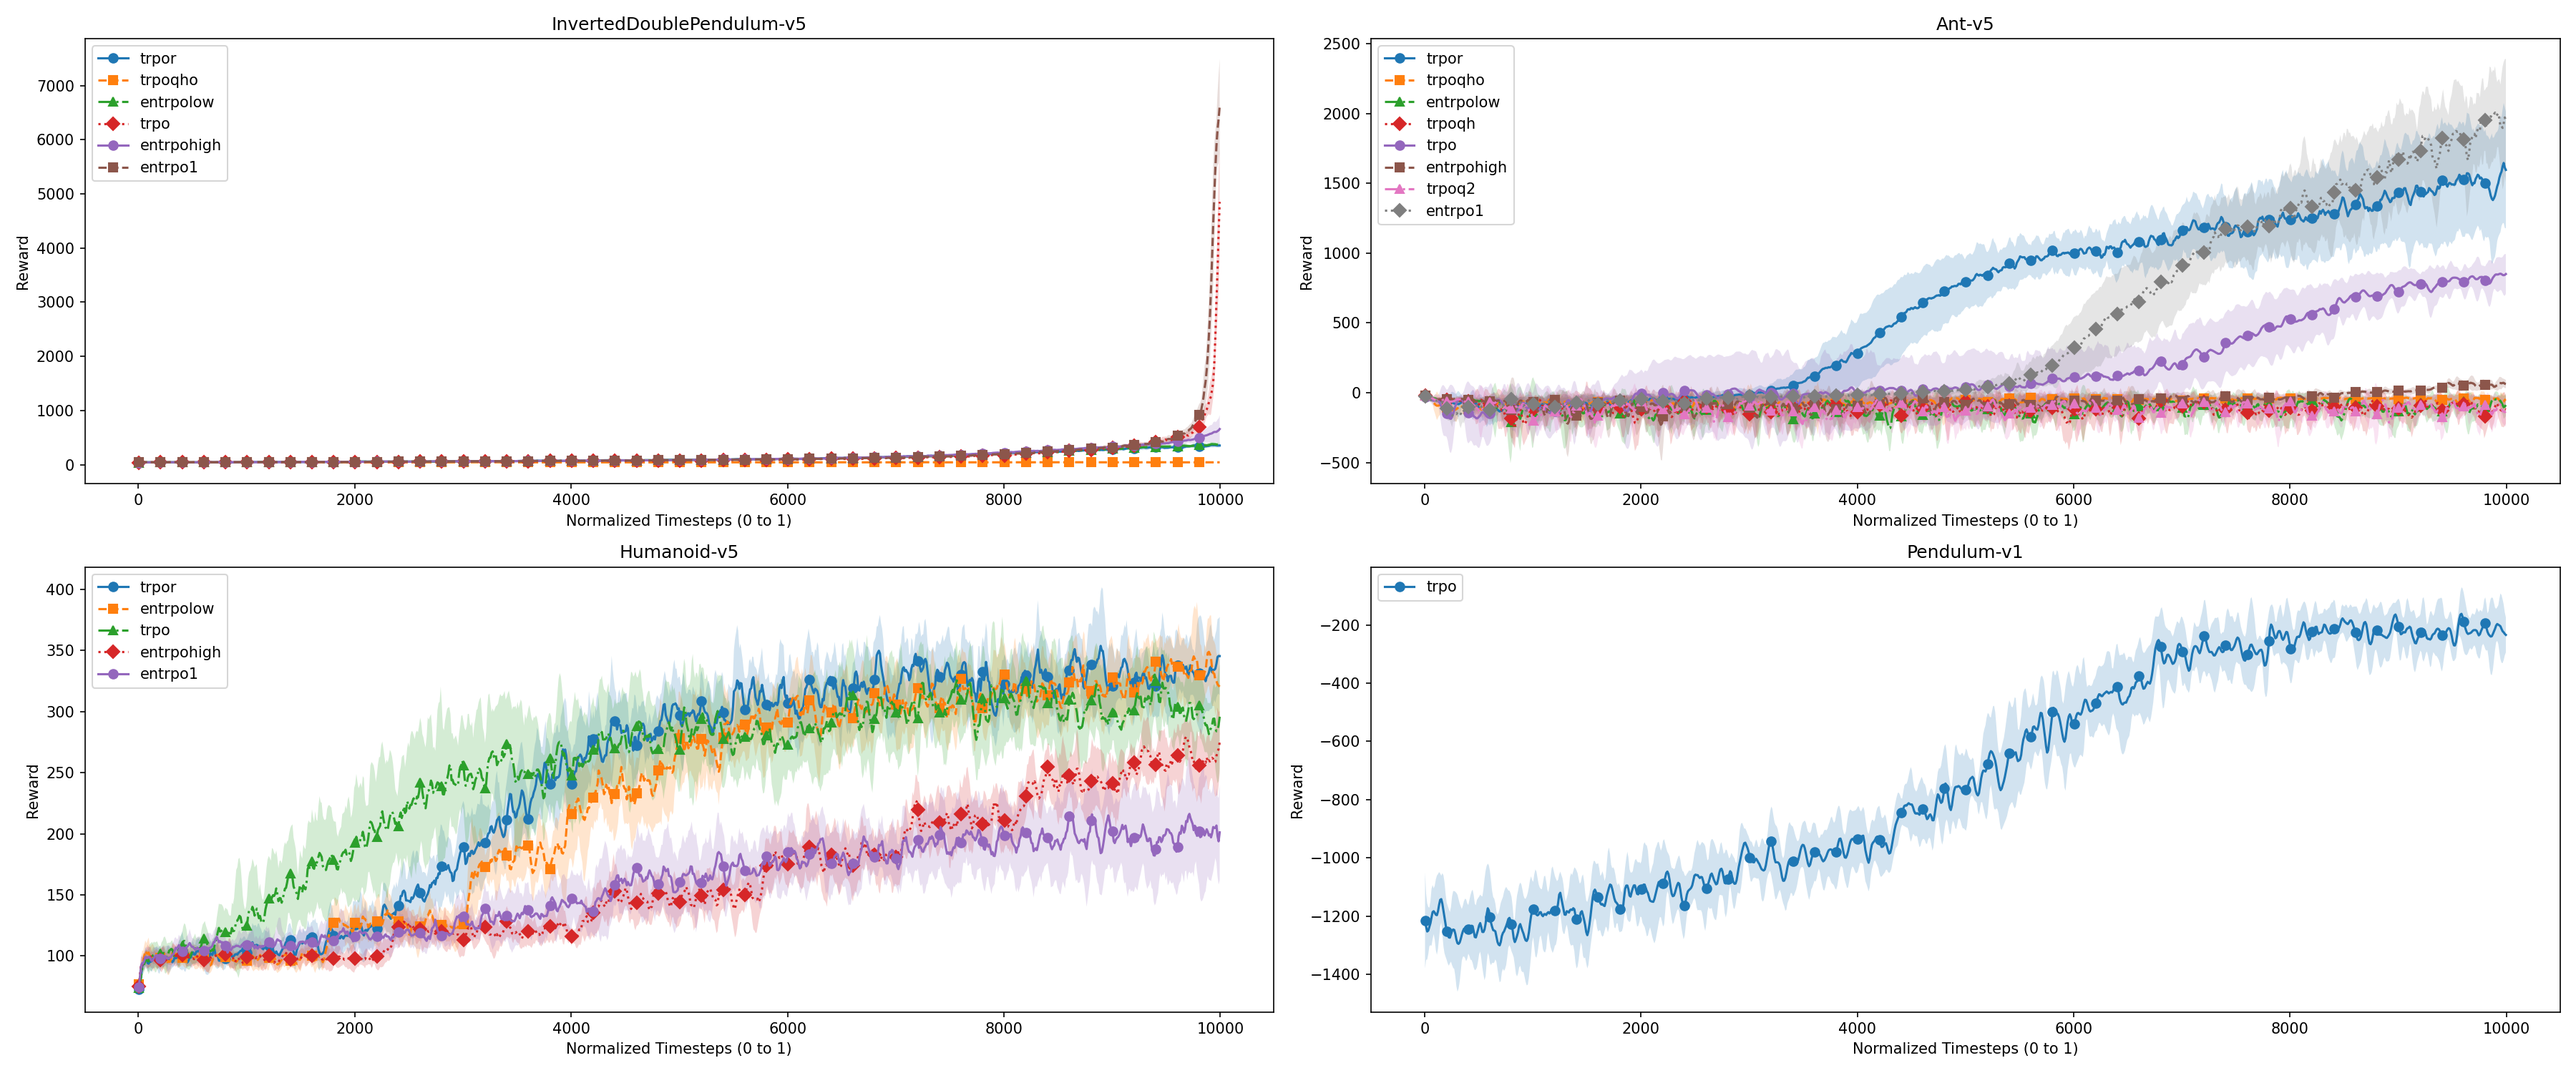
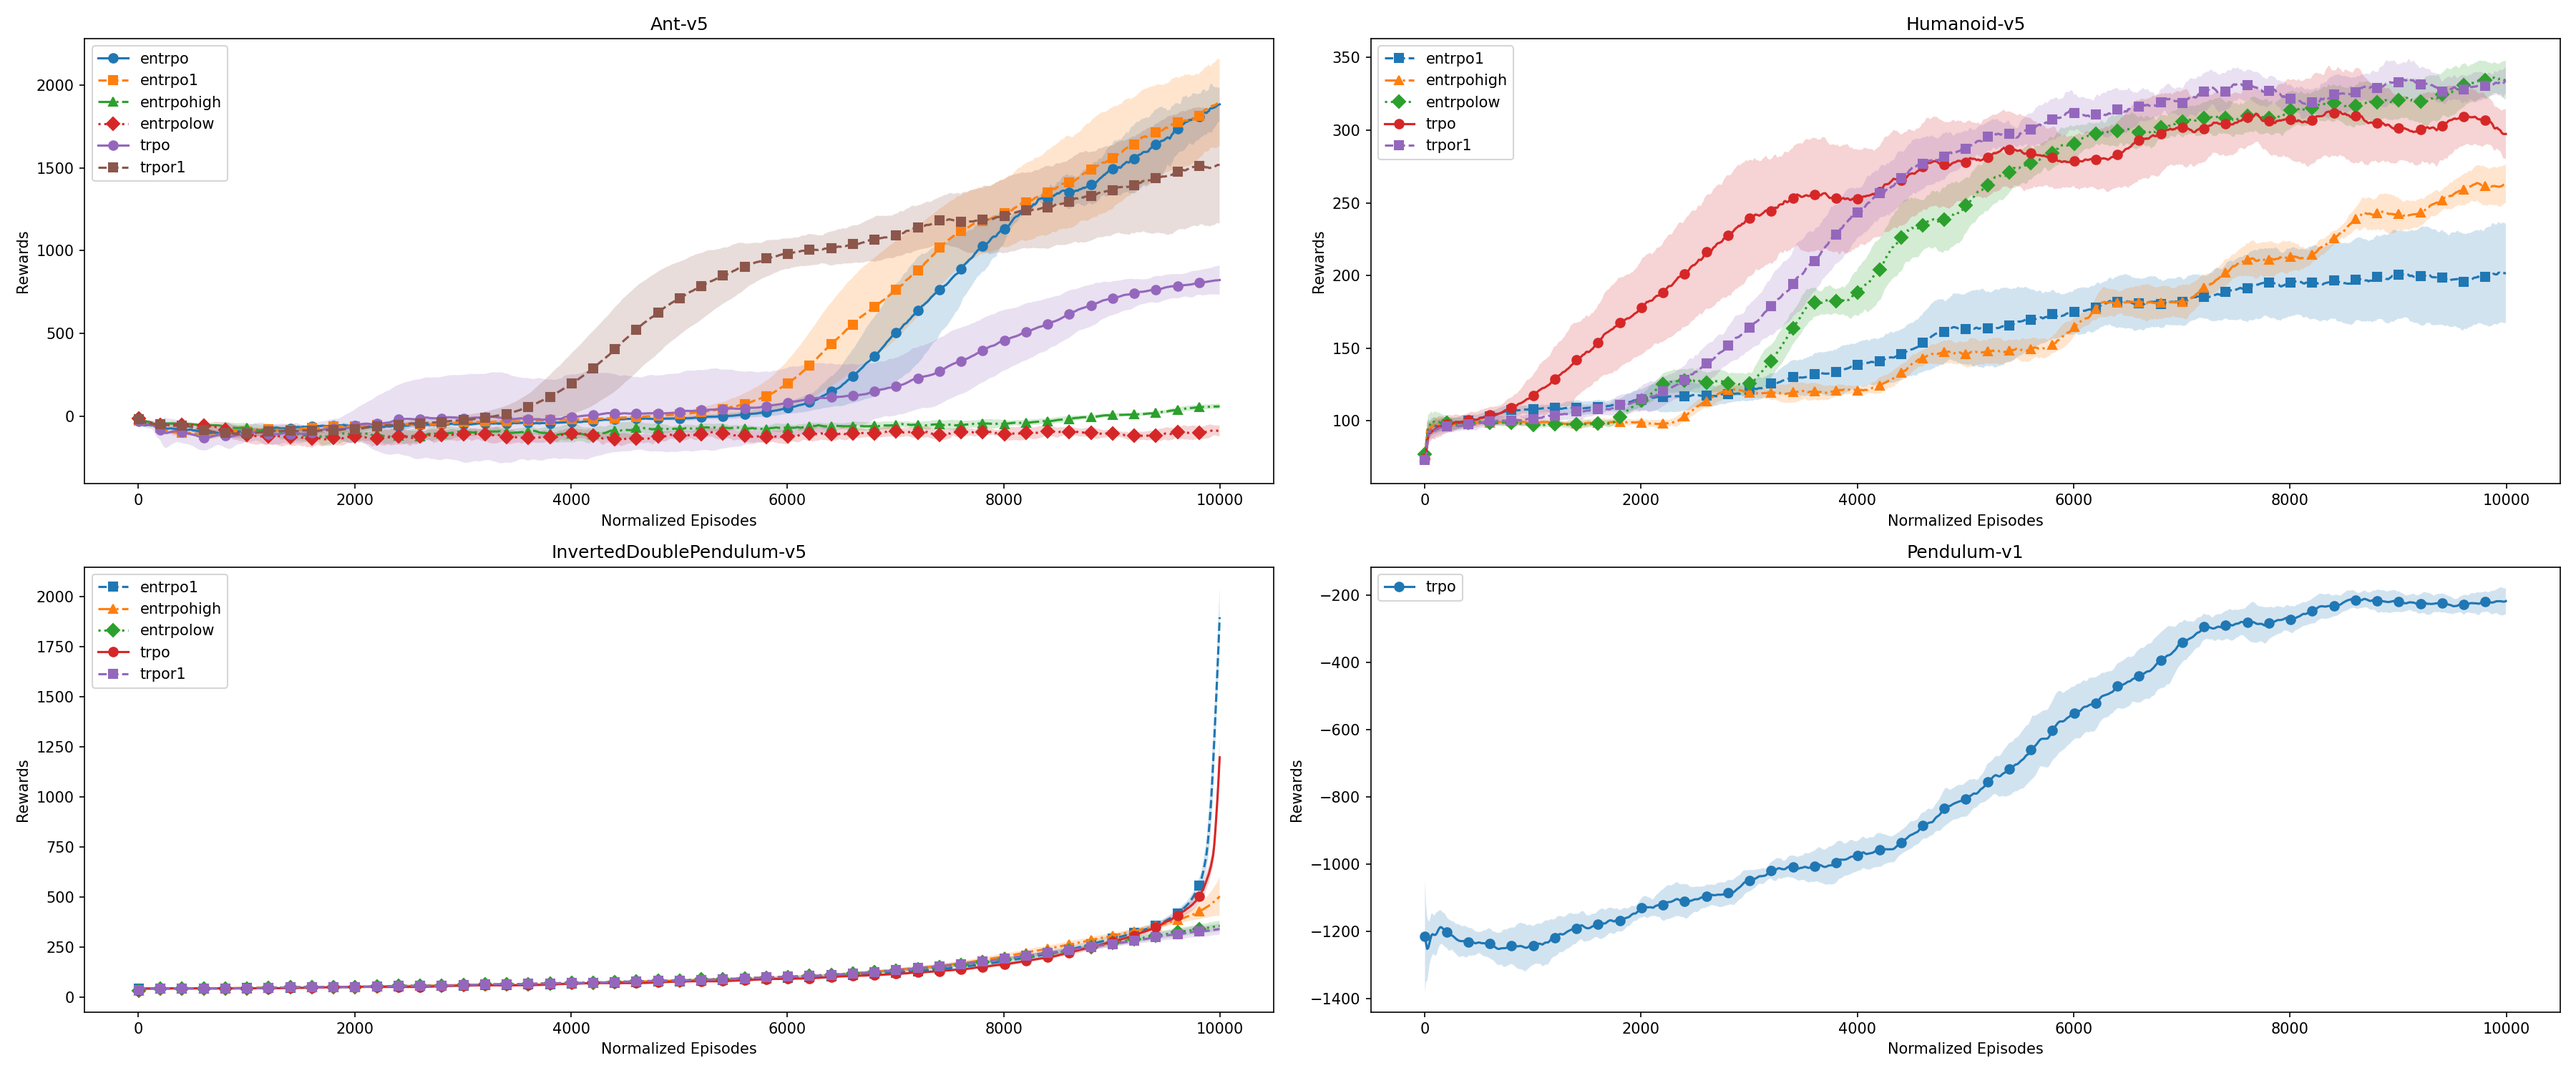
ppo tuned

diff --git a/zoo/train_eval_plot.py b/zoo/train_eval_plot.py
@@ -11,7 +11,7 @@ import yaml
 
 
 # Good
-def downsample_data_with_smoothing(timesteps, rewards, max_points=1000, window_size=50):
+def downsample_data_with_smoothing(timesteps, rewards, max_points=1000, window_size=500):
 
   if len(timesteps) <= max_points:
     # Apply rolling average smoothing only
@@ -40,13 +40,7 @@ def downsample_data_with_smoothing(timesteps, rewards, max_points=1000, window_s
   return binned_timesteps, binned_rewards
 
 
-def plot_all_from_csv(csv_path, results_dir):
-  """
-    Generate plots for all environments in a grid with 2 rows.
-    Args:
-        csv_path (str): Path to the CSV containing the aggregated results.
-        results_dir (str): Directory to save the resulting plot.
-    """
+def plot_all_from_csv(csv_path, results_dir, filter_envs=None, filter_models=None):
   os.makedirs(results_dir, exist_ok=True)
   if not os.path.exists(csv_path):
     print(f"CSV file not found: {csv_path}")
@@ -58,17 +52,19 @@ def plot_all_from_csv(csv_path, results_dir):
   line_styles = ["-", "--", "-.", ":"]
   markers = ["o", "s", "^", "D"]
   max_points = 1000
-  marker_interval = max(1, max_points // 50)  # Ensure no more than 100 markers per line
+  marker_interval = max(1, max_points // 50)
 
-  # Calculate grid dimensions
-  n_cols = (n_envs + 1) // 2  # Ensure all plots fit into a 2-row grid
+  # Predefine style and marker mappings for consistent ordering
+  all_models = sorted(results_df["Model"].unique())
+  style_mapping = {model: line_styles[i % len(line_styles)] for i, model in enumerate(all_models)}
+  marker_mapping = {model: markers[i % len(markers)] for i, model in enumerate(all_models)}
+
+  n_cols = (n_envs + 1) // 2
   fig, axes = plt.subplots(2, n_cols, figsize=(12 * n_cols, 10), dpi=150)
-
-  # Flatten axes for easier iteration, in case of a single row/column
   axes = axes.flatten()
 
   for ax, (env, group) in zip(axes, grouped):
-    for idx, model in enumerate(group["Model"].unique()):
+    for model in sorted(group["Model"].unique()):  # Sort models for consistent order
       model_data = group[group["Model"] == model]
       aggregated_df = pd.DataFrame()
 
@@ -83,15 +79,12 @@ def plot_all_from_csv(csv_path, results_dir):
         mean_rewards = aggregated_df.mean(axis=1)
         std_rewards = aggregated_df.std(axis=1)
 
-        # Downsample data
         downsampled_timesteps, downsampled_mean_rewards = downsample_data_with_smoothing(mean_rewards.index.values, mean_rewards.values)
         _, downsampled_std_rewards = downsample_data_with_smoothing(mean_rewards.index.values, std_rewards.values)
 
-        # Select line style and marker
-        line_style = line_styles[idx % len(line_styles)]
-        marker = markers[idx % len(markers)]
+        line_style = style_mapping[model]
+        marker = marker_mapping[model]
 
-        # Plot mean and standard deviation
         ax.fill_between(
           downsampled_timesteps,
           downsampled_mean_rewards - downsampled_std_rewards,
@@ -109,11 +102,10 @@ def plot_all_from_csv(csv_path, results_dir):
         )
 
     ax.set_title(env)
-    ax.set_xlabel("Timesteps")
-    ax.set_ylabel("Reward")
+    ax.set_xlabel("Episodes")
+    ax.set_ylabel("Rewards")
     ax.legend(loc="upper left")
 
-  # Hide unused subplots
   for ax in axes[len(grouped) :]:
     ax.axis("off")
 
@@ -172,17 +164,20 @@ def plot_rewards_from_grouped_paths(grouped, results_dir, num_points=10000):
   fig, axes = plt.subplots(2, n_cols, figsize=(12 * n_cols, 10), dpi=150)
   axes = axes.flatten()
 
-  # Define patterns and markers for accessibility
+  # Define styles and markers for consistent mapping
+  all_models = sorted(set(model for paths in grouped.values() for path in paths for model in [os.path.basename(os.path.dirname(os.path.dirname(path)))]))
   line_styles = ["-", "--", "-.", ":"]
   markers = ["o", "s", "^", "D"]
+  style_mapping = {model: line_styles[i % len(line_styles)] for i, model in enumerate(all_models)}
+  marker_mapping = {model: markers[i % len(markers)] for i, model in enumerate(all_models)}
   max_points = 1000
-  marker_interval = max(1, max_points // 50)  # Ensure no more than 100 markers per line
+  marker_interval = max(1, max_points // 50)
 
-  for ax, (env, paths) in zip(axes, grouped.items()):
+  for ax, (env, paths) in zip(axes, sorted(grouped.items())):  # Sort environments for consistent order
     model_aggregated = {}
     common_timesteps = np.linspace(0, 1, num=num_points)
 
-    for file_path in paths:
+    for file_path in sorted(paths):  # Sort paths for consistent processing order
       if os.path.exists(file_path):
         model = os.path.basename(os.path.dirname(os.path.dirname(file_path)))  # Extract model name
         run_data = pd.read_csv(file_path)
@@ -190,24 +185,23 @@ def plot_rewards_from_grouped_paths(grouped, results_dir, num_points=10000):
 
         resampled_data = resample_to_fixed_points(run_data, num_points, common_timesteps)
 
-        # Downsample the resampled data
         downsampled_timesteps, downsampled_rewards = downsample_data_with_smoothing(
-          resampled_data.index, resampled_data["Reward"], max_points=1000, window_size=50
+          resampled_data.index, resampled_data["Reward"], max_points=1000, window_size=500
         )
 
         if model not in model_aggregated:
           model_aggregated[model] = []
         model_aggregated[model].append(pd.Series(downsampled_rewards, index=downsampled_timesteps))
 
-    for idx, (model, rewards_list) in enumerate(model_aggregated.items()):
+    for model in sorted(model_aggregated.keys()):  # Sort models for consistent legend order
+      rewards_list = model_aggregated[model]
       if rewards_list:
         stacked_rewards = pd.concat(rewards_list, axis=1)
         mean_rewards = stacked_rewards.mean(axis=1)
         std_rewards = stacked_rewards.std(axis=1)
 
-        # Use styles and markers to differentiate
-        line_style = line_styles[idx % len(line_styles)]
-        marker = markers[idx % len(markers)]
+        line_style = style_mapping[model]
+        marker = marker_mapping[model]
 
         ax.fill_between(
           mean_rewards.index,
@@ -222,12 +216,12 @@ def plot_rewards_from_grouped_paths(grouped, results_dir, num_points=10000):
           linewidth=1.5,
           linestyle=line_style,
           marker=marker,
-          markevery=marker_interval,  # Plot markers only at intervals
+          markevery=marker_interval,
         )
 
     ax.set_title(env)
-    ax.set_xlabel("Normalized Timesteps (0 to 1)")
-    ax.set_ylabel("Reward")
+    ax.set_xlabel("Normalized Episodes")
+    ax.set_ylabel("Rewards")
     ax.legend(loc="upper left")
 
   for ax in axes[len(grouped) :]:
@@ -241,9 +235,9 @@ def plot_rewards_from_grouped_paths(grouped, results_dir, num_points=10000):
 
 
 if __name__ == "__main__":
-  filter_envs = ["Ant-v5", "Humanoid-v5", "InvertedDoublePendulum-v5", "Pendulum-v1"]
-  filter_models = ["trpor", "entrpo", "trpo"]
+  filter_envs = None
+  filter_models = None
   results_dir = ".plots"
   plot_from_path(".eval", results_dir, filter_envs=filter_envs, filter_models=filter_models)
 
-  plot_all_from_csv("results/results.csv", results_dir)
+  plot_all_from_csv("results/results.csv", results_dir, filter_envs=filter_envs, filter_models=filter_models)

diff --git a/zoo/train-eval.py b/zoo/train-eval.py
@@ -130,7 +130,6 @@ if __name__ == "__main__":
   parser = argparse.ArgumentParser()
   parser.add_argument("--model", type=str, default="ppo")
   parser.add_argument("--env", type=str, default="LunarLanderContinuous-v3")
-  parser.add_argument("--envs", type=int, default=10)
   parser.add_argument("--device", type=str, default="cpu")
   parser.add_argument("--optimize", type=bool, default=False)
   parser.add_argument("--conf_file", type=str, default=None)
@@ -151,7 +150,6 @@ if __name__ == "__main__":
   evaluate_training(
     algo=params.model,
     env=params.env,
-    n_eval_envs=params.envs,
     device=params.device,
     optimize_hyperparameters=params.optimize,
     conf_file=params.conf_file,
